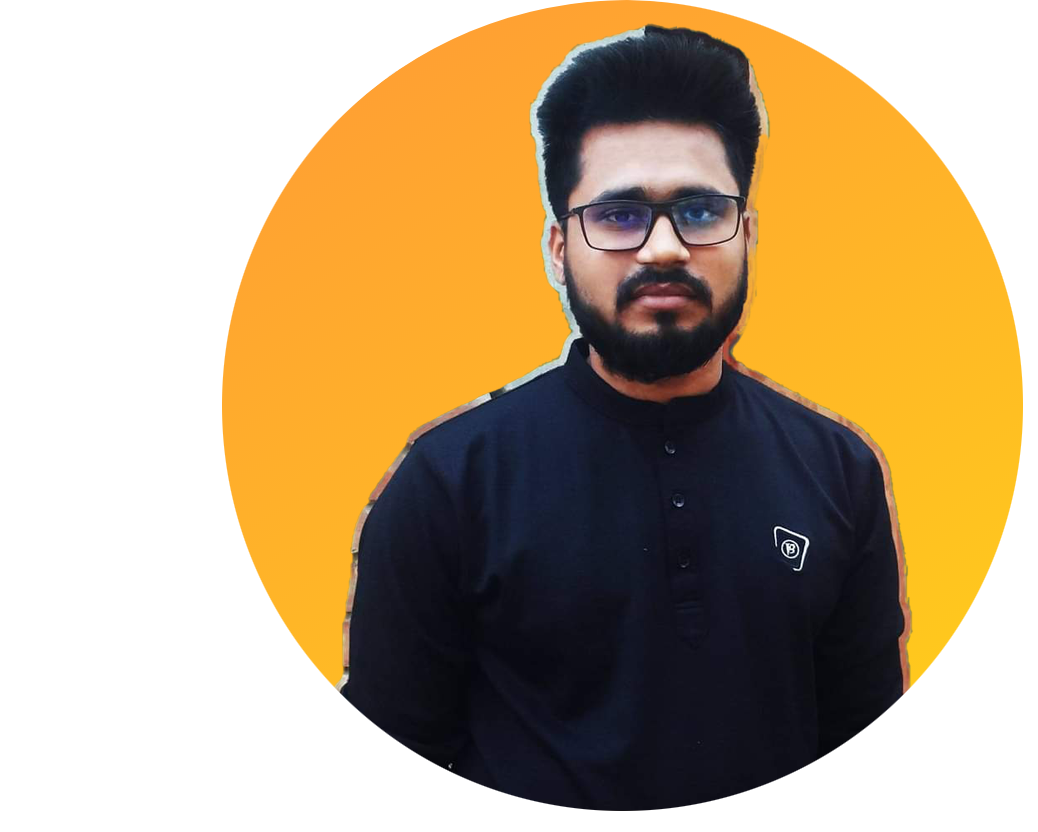
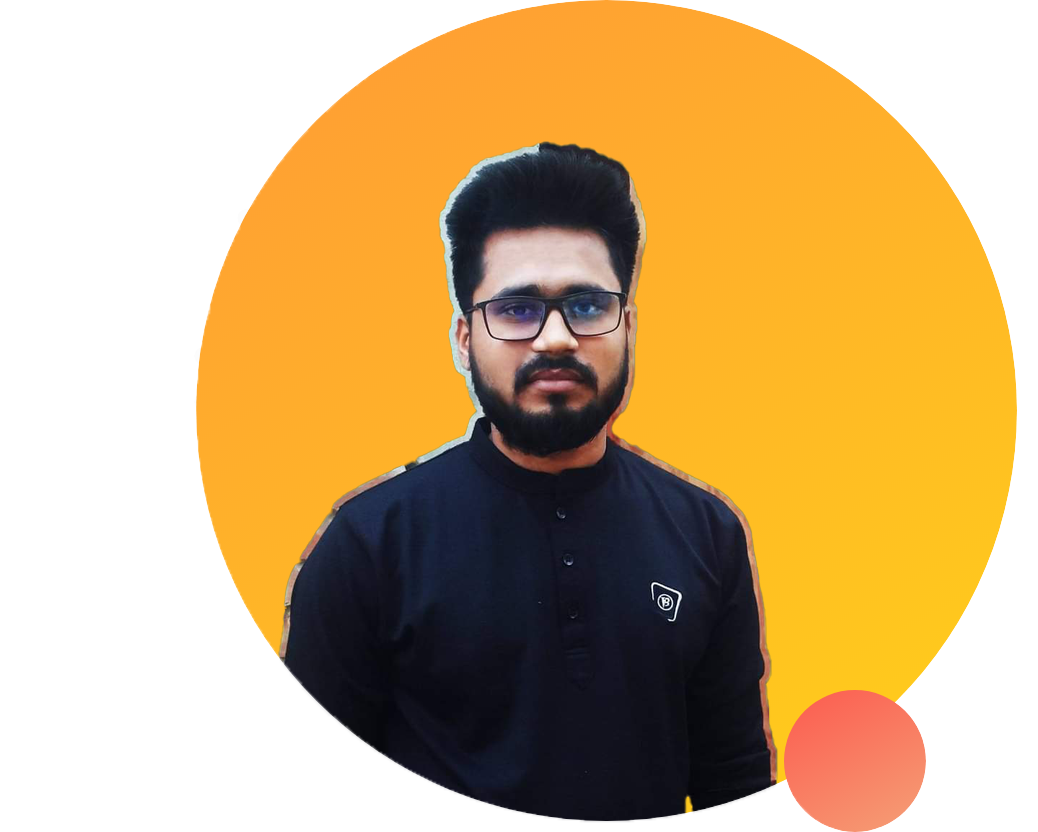
final look

diff --git a/index.html b/index.html
@@ -3,24 +3,68 @@
 <head>
     <meta charset="UTF-8">
     <meta name="viewport" content="width=device-width, initial-scale=1.0">
-    <title>Md. Hasibul Hossain Web Developer </title>
+    <title>Document</title>
     <link rel="stylesheet" href="style.css">
     <link href='https://fonts.googleapis.com/css?family=Poppins' rel='stylesheet'>
-  
-
-
 </head>
 <body>
     <section class="top-banner">
         <div class="half-width">
-        <h1>Welcome to </h1>
-        <h1><span class="name-highlight">Hasibul</span> Website</h1>
-        <h3>World class webdeveloper</h3>
-        <p>It is very difficult to get a job in our Bangladesh, no matter if it is a government job. Since no one pays money without a job, so I am learning wave development because one can earn a lot of money by doing wave development- </p>
-        <a class="hire" target="_blank" href="https://www.facebook.com/profile.php?id=100016593728342&mibextid=ZbWKwL">Hire Me</a>
+            <h1>Welcome to</h1>
+        <h1><span class="name-highlight">Hasibul </span>Website</h1>
+        <h3>World-class professional Webdeveloper</h3>
+        <p>It is very difficult to get a job in our Bangladesh,no matter if it is a government job.Since no one pays money without a job, so i am learning wabe development because one can earn a lot of money by doing web development.</p>
+        <a class="link-button" href="">HIRE ME</a>
         </div>
         <div class="half-width">
-            <img src="images/profile1.png" alt="">
+              <img src="images/profile1.png" alt="">
+        </div>
+    </section>
+    <section class="dream-area ">
+        <div class="half-width">
+            <img src="images/profile2.png" alt="">
+
+        </div>
+        <div class="half-width">
+            <h2>Big Dream</h2>
+            <h3>Becomes world no 1 developer</h3>
+            <p>I already learned the basic HTML and CSS.I can build any simple website.I can ever teach my wife how to make simple wesite.My goal is to build 3 web button and learn and learn advanced topic</p>
+            <a class="link-button" target="-blank" href="">Visit My facebook Account</a>
+
+        </div>
+    </section>
+    <section class="Experience">
+       <h2>Experience</h2>
+        <div id="first" class="half-width single">
+            <h2>Lorem Text 1</h2>
+            <h4 class="name-highlight">Lorem Text</h4>
+            <p>Lorem, ipsum dolor sit amet consectetur adipisicing elit. Soluta sed totam quia exercitationem repellendus quibusdam repudiandae corrupti autem ducimus, alias nobis sequi explicabo sunt commodi accusamus dignissimos? Voluptatibus, quasi sit?</p>
+
+        </div>
+        <div id="second" class="half-width single">
+            <h2>Lorem text 2</h2>
+            <h4 class="name-highlight">Lorem text</h4>
+            <p>Lorem ipsum dolor sit amet consectetur, adipisicing elit. Illo obcaecati ipsa incidunt voluptas minus numquam, aspernatur adipisci optio molestias dicta eius est expedita libero facere eveniet inventore. Nostrum, voluptate architecto.</p>
+
+        </div>
+    </section>
+    <footer></footer>
+</body>
+</html>
+        
+    </section>
+    <section class="Experience">
+        <div class="half-width">
+            <h2>Full stack web develper</h2>
+            <h4><span class="name-highlight">2021-Present now/Pro leve web developer</span></h4>
+            <p>I am the master of HTML,CSS and Javascript.I know everything needed to make a website function.efficient.I didn't step with the web.I want beyond with most popular Javascript framework called Vue Js.I even know the deployment server and security.I will give you 100% web solution</p>
+
+        </div>
+        <div class="half-width">
+            <h2>Baby web developer</h2>
+            <h4><span class="name-highlight">2020-2021  programming hero web development learner</span>
+                </h4>
+
         </div>
     </section>
     

diff --git a/new.html b/new.html
@@ -3,26 +3,51 @@
 <head>
     <meta charset="UTF-8">
     <meta name="viewport" content="width=device-width, initial-scale=1.0">
-    <title>Md. Hasibul Hossain Web Developer </title>
-    <link rel="stylesheet" href="style.css">
+    <title>Document</title>
+    <link rel="stylesheet" href="style practice.css">
     <link href='https://fonts.googleapis.com/css?family=Poppins' rel='stylesheet'>
-  
-
-
 </head>
 <body>
     <section class="top-banner">
         <div class="half-width">
-        <h1>Welcome to </h1>
-        <h1><span class="name-highlight">Hasibul</span> Website</h1>
-        <h3>World class webdeveloper</h3>
-        <p>It is very difficult to get a job in our Bangladesh, no matter if it is a government job. Since no one pays money without a job, so I am learning wave development because one can earn a lot of money by doing wave development- </p>
-        <a class="hire" target="_blank" href="https://www.facebook.com/profile.php?id=100016593728342&mibextid=ZbWKwL">Hire Me</a>
+            <h1>Welcome to</h1>
+        <h1><span class="name-highlight">Hasibul </span>Website</h1>
+        <h3>World-class professional Webdeveloper</h3>
+        <p>It is very difficult to get a job in our Bangladesh,no matter if it is a government job.Since no one pays money without a job, so i am learning wabe development because one can earn a lot of money by doing web development.</p>
+        <a class="link-button" href="">HIRE ME</a>
         </div>
         <div class="half-width">
-            <img src="images/profile1.png" alt="">
+              <img src="images/profile1.png" alt="">
         </div>
     </section>
-    
+    <section class="dream-area ">
+        <div class="half-width">
+            <img src="images/profile2.png" alt="">
+
+        </div>
+        <div class="half-width">
+            <h2>Big Dream</h2>
+            <h3>Becomes world no 1 developer</h3>
+            <p>I already learned the basic HTML and CSS.I can build any simple website.I can ever teach my wife how to make simple wesite.My goal is to build 3 web button and learn and learn advanced topic</p>
+            <a class="link-button" target="-blank" href="https://www.facebook.com/profile.php?id=100016593728342&mibextid=ZbWKwL">Visit My facebook Account</a>
+
+        </div>
+    </section>
+    <section class="Experience">
+       <h2>Experience</h2>
+        <div id="first" class="half-width single">
+            <h2>Lorem Text 1</h2>
+            <h4 class="name-highlight">Lorem Text</h4>
+            <p>Lorem, ipsum dolor sit amet consectetur adipisicing elit. Soluta sed totam quia exercitationem repellendus quibusdam repudiandae corrupti autem ducimus, alias nobis sequi explicabo sunt commodi accusamus dignissimos? Voluptatibus, quasi sit?</p>
+
+        </div>
+        <div id="second" class="half-width single">
+            <h2>Lorem text 2</h2>
+            <h4 class="name-highlight">Lorem text</h4>
+            <p>Lorem ipsum dolor sit amet consectetur, adipisicing elit. Illo obcaecati ipsa incidunt voluptas minus numquam, aspernatur adipisci optio molestias dicta eius est expedita libero facere eveniet inventore. Nostrum, voluptate architecto.</p>
+
+        </div>
+    </section>
+    <footer></footer>
 </body>
 </html>

diff --git a/style practice.css b/style practice.css
@@ -1,0 +1,75 @@
+
+body{
+margin: 0%;
+    font-family: 'Poppins';font-size: 18px;
+   
+}
+
+h1{
+    font-size: 50px;
+}
+h2{
+    font-size: 40px;
+}
+p{
+    color: darkslategrey;
+}
+.name-highlight{
+    color: orange;
+}
+.half-width{
+    width:40%;
+    float: left;
+    margin-left:5%;
+    padding-left: 2%;
+    
+}
+.half-width img{
+width: 100%;
+
+}
+.top-banner{
+    background-image: url("images/top-banner.png");
+    background-repeat: no-repeat;
+}
+section{
+    height:500px;
+    padding-bottom: 150px;
+}
+.link-button{
+    text-decoration: none;
+    background-image: linear-gradient(45deg,lightSalmon,tomato);
+    padding: 10px 20px;
+    border-radius:5px ;
+    color: white;
+    font-weight: bold;
+
+}
+.dream-area{
+    background-image: url(images/dream-bg.png);
+    background-repeat: no-repeat;
+    background-position: right;
+}
+.single{
+    box-shadow: 10px 10px 40px gray;
+    border-radius: 5px;
+    height: 80%;
+    background-color: white;
+}
+.Experience{
+    background-image: url(images/exp-bg.png);
+    background-repeat: no-repeat;
+    background-position: left center;
+    margin-left: 10px;
+}
+#first{
+    border-left: 5px solid;
+    border-image-source: linear-gradient(green,red);
+    border-image-slice: 1;
+}
+#second{
+    border-left: 5px solid;
+    border-image-source: linear-gradient(blue,cyan);
+    border-image-slice: 1;
+   
+}

diff --git a/style.css b/style.css
@@ -14,6 +14,7 @@ h1{
     width: 40%;
     float: left;
     margin:5%;
+
 }
 .half-width img{
     width: 100%;
@@ -23,13 +24,12 @@ h1{
     background-repeat: no-repeat;
 }
 section{
-    height: 500px;
+    height: 600px;
 }
 .hire{
     text-decoration: none;
-    background-image:linear-gradient(lightSalmon,tomato);
+    background-image:linear-gradient(45deg,lightSalmon,tomato);
     padding: 10px 20px;
     border-radius: 10px;
     color: white;
     width: bold;
-}
